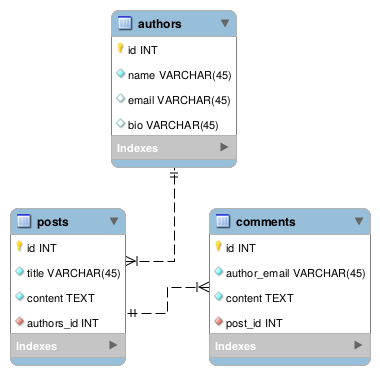
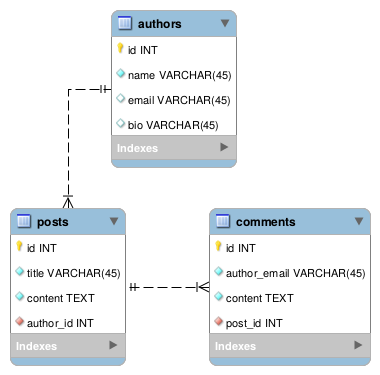
Author model added, relationships and hasManyThrough working.

diff --git a/app/Http/Controllers/AuthorController.php b/app/Http/Controllers/AuthorController.php
@@ -1,0 +1,85 @@
+<?php
+
+namespace App\Http\Controllers;
+
+use App\Author;
+use Illuminate\Http\Request;
+
+class AuthorController extends Controller
+{
+    /**
+     * Display a listing of the resource.
+     *
+     * @return \Illuminate\Http\Response
+     */
+    public function index()
+    {
+        //
+    }
+
+    /**
+     * Show the form for creating a new resource.
+     *
+     * @return \Illuminate\Http\Response
+     */
+    public function create()
+    {
+        //
+    }
+
+    /**
+     * Store a newly created resource in storage.
+     *
+     * @param  \Illuminate\Http\Request  $request
+     * @return \Illuminate\Http\Response
+     */
+    public function store(Request $request)
+    {
+        //
+    }
+
+    /**
+     * Display the specified resource.
+     *
+     * @param  \App\Author  $author
+     * @return \Illuminate\Http\Response
+     */
+    public function show(Author $author)
+    {
+        //
+    }
+
+    /**
+     * Show the form for editing the specified resource.
+     *
+     * @param  \App\Author  $author
+     * @return \Illuminate\Http\Response
+     */
+    public function edit(Author $author)
+    {
+        //
+    }
+
+    /**
+     * Update the specified resource in storage.
+     *
+     * @param  \Illuminate\Http\Request  $request
+     * @param  \App\Author  $author
+     * @return \Illuminate\Http\Response
+     */
+    public function update(Request $request, Author $author)
+    {
+        //
+    }
+
+    /**
+     * Remove the specified resource from storage.
+     *
+     * @param  \App\Author  $author
+     * @return \Illuminate\Http\Response
+     */
+    public function destroy(Author $author)
+    {
+        //
+    }
+}

diff --git a/database/migrations/2018_02_11_152637_add_author_id_to_posts.php b/database/migrations/2018_02_11_152637_add_author_id_to_posts.php
@@ -1,0 +1,34 @@
+<?php
+
+use Illuminate\Support\Facades\Schema;
+use Illuminate\Database\Schema\Blueprint;
+use Illuminate\Database\Migrations\Migration;
+
+class AddAuthorIdToPosts extends Migration
+{
+    /**
+     * Run the migrations.
+     *
+     * @return void
+     */
+    public function up()
+    {
+        Schema::table('posts', function (Blueprint $table) {
+            $table->integer('author_id')->unsigned();
+
+            $table->foreign('author_id')->references('id')->on('authors');
+        });
+    }
+
+    /**
+     * Reverse the migrations.
+     *
+     * @return void
+     */
+    public function down()
+    {
+        Schema::table('posts', function (Blueprint $table) {
+            $table->dropColumn('author_id');
+        });
+    }
+}

diff --git a/database/migrations/2018_02_11_151840_create_authors_table.php b/database/migrations/2018_02_11_151840_create_authors_table.php
@@ -1,0 +1,34 @@
+<?php
+
+use Illuminate\Support\Facades\Schema;
+use Illuminate\Database\Schema\Blueprint;
+use Illuminate\Database\Migrations\Migration;
+
+class CreateAuthorsTable extends Migration
+{
+    /**
+     * Run the migrations.
+     *
+     * @return void
+     */
+    public function up()
+    {
+        Schema::create('authors', function (Blueprint $table) {
+            $table->increments('id');
+            $table->string('name');
+            $table->string('email');
+            $table->string('bio')->nullable();
+            $table->timestamps();
+        });
+    }
+
+    /**
+     * Reverse the migrations.
+     *
+     * @return void
+     */
+    public function down()
+    {
+        Schema::dropIfExists('authors');
+    }
+}

diff --git a/app/Author.php b/app/Author.php
@@ -1,0 +1,17 @@
+<?php
+
+namespace App;
+
+use Illuminate\Database\Eloquent\Model;
+
+class Author extends Model
+{
+    public function posts()
+    {
+        return $this->hasMany('App\Post');
+    }
+    public function comments()
+    {
+        return $this->hasManyThrough('App\Comment', 'App\Post');
+    }
+}

diff --git a/app/Post.php b/app/Post.php
@@ -10,4 +10,9 @@ class Post extends Model
     {
         return $this->hasMany('App\Comment');
     }
+
+    public function author()
+    {
+        return $this->belongsTo('App\Author');
+    }
 }

diff --git a/database/factories/AuthorFactory.php b/database/factories/AuthorFactory.php
@@ -1,0 +1,9 @@
+<?php
+
+use Faker\Generator as Faker;
+
+$factory->define(App\Author::class, function (Faker $faker) {
+    return [
+        //
+    ];
+});

diff --git a/article_stuff/markdown/part2.md b/article_stuff/markdown/part2.md
@@ -1,0 +1,112 @@
+# Passos para a parte 2 do artigo
+
+## Remodelar o DER
+- Gerar o novo diagrama
+- Exportar para PNG
+- Adicionar os arquivos de modelagem ao repositório
+
+## Criar o model Authors
+- php artisan make:model Author -crmf
+- Colocar as colunas na tabela authors em database/migrations/create_authors_table.php
+    ```public function up()
+    {
+        Schema::create('authors', function (Blueprint $table) {
+            $table->increments('id');
+            $table->string('name');
+            $table->string('email');
+            $table->string('bio')->nullable();
+            $table->timestamps();
+        });
+    }```
+
+## Adicionar o ID do autor ao Post
+- php artisan make:migration add_author_id_to_posts --table=posts
+- Colocar a coluna de chave estrangeira em database/migrations/add_author_id_to_posts.php
+    ```public function up()
+    {
+            Schema::table('posts', function (Blueprint $table) {
+                $table->integer('author_id')->unsigned();
+
+                $table->foreign('author_id')->references('id')->on('authors');
+            });
+        }
+
+        /**
+         * Reverse the migrations.
+         *
+         * @return void
+         */
+        public function down()
+        {
+            Schema::table('posts', function (Blueprint $table) {
+                $table->dropColumn('author_id');
+            });
+        }
+    }```
+
+## Rodar as migrations
+- Antes de rodar as migrations, temos que dar refresh no banco de dados, pois podem existir dados que impediriam a adição de novas chaves estrangeiras (PDOException::("SQLSTATE[23000]):
+    - php artisan migrate:refresh
+- php artisan migrate
+
+## Adicionar os relacionamentos
+    - app/Post.php
+        - Code here
+    - app/Author.php
+        - Code here
+
+## Testar o banco de dados no Tinker
+- php artisan tinker
+    - $author = new Author
+    - $author->name = 'Leandro Ramos'
+    - $author->email = 'leandroramos@usp.br'
+    - $author->save()
+    - $post = new Post
+    - $post->title = 'Um Grande Post!'
+    - $post->content = 'Um excelente texto explicando sobre uma grande novidade'
+    - $post->author_id = 1
+    - $post = new Post
+    - $post->title = 'Segundo Grande Post!'
+    - $post->content = 'Segundo texto espetacular sobre um grande post.'
+    - $post->author_id = 1
+    - $post = new Post
+    - $post->title = 'Um Grande Post!'
+    - $post->content = 'Um excelente texto explicando sobre uma grande novidade'
+    - $post->author_id = 1 
+    - $post->save()
+    - $post = new Post
+    - $post->title = 'Segundo Grande Post!'
+    - $post->content = 'Segundo texto espetacular sobre um grande post.'
+    - $post->author_id = 1 
+    - $post->save()
+    - $comment = new Comment
+    - $comment->author_email = 'comentador@site.com'
+    - $comment->content = 'Mas que post sensacional!'
+    - $comment->post_id = 1
+    - $comment->save()
+    - $comment = new Comment
+    - $comment->author_email = 'oriboncina@site.com'
+    - $comment->content = 'Sei não... estás enganado!!'
+    - $comment->post_id = 1
+    - $comment->save()
+    - $comment = new Comment
+    - $comment->author_email = 'eu@site.com'
+    - $comment->content = 'Estão faltando alguns links no post.'
+    - $comment->post_id = 1
+    - $comment->save()
+    - $comment = new Comment
+    - $comment->author_email = 'eu@site.com'
+    - $comment->content = 'Obrigado, ajudou muito.'
+    - $comment->post_id = 2
+    - $comment->save()
+    - 
+    - Testes:
+        - $author = Author::first()
+        - $author->posts
+        - $author->comments
+        - $author->comments->where('post_id', '2')
+        - $comment = Comment::first()
+        - $comment->post
+        - $comment->post->author
+        - $comment->post->author->name
+ 
